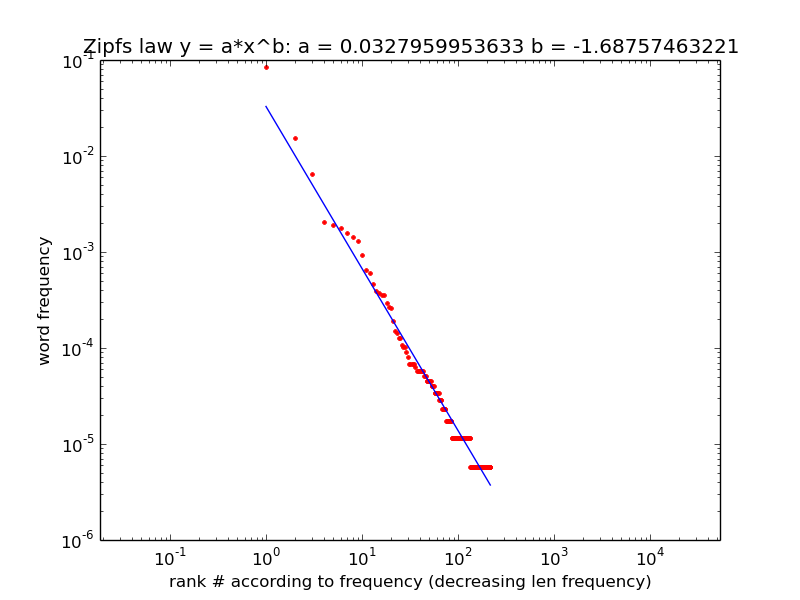
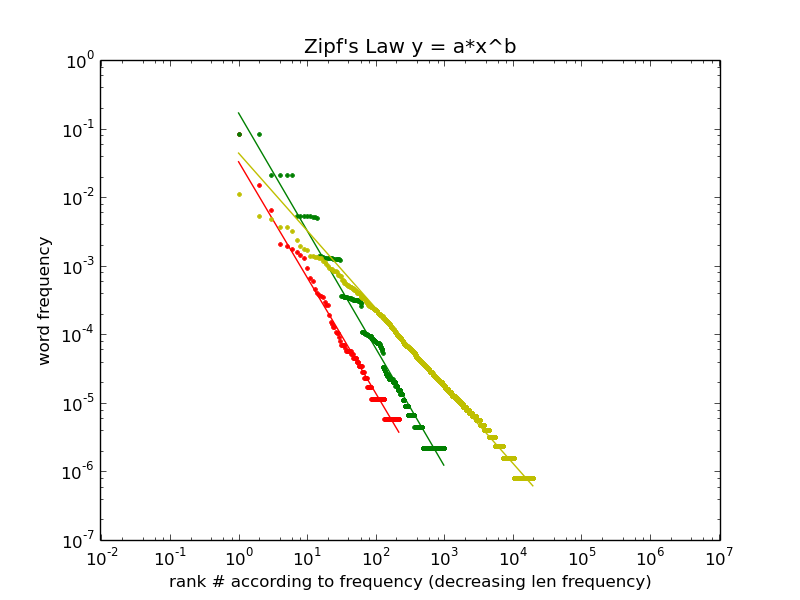
it is possible to compare texts with their word/frequency content graphicallt

diff --git a/src/decoding_cosmicos.py b/src/decoding_cosmicos.py
@@ -32,7 +32,22 @@ class DecoderClass(object):
         preliminary = [str(i) for i in list(np.random.random_integers(0, 3, (limit,)))]
         self.origmsgtext = ''.join(preliminary)
         self.msgtext = self.origmsgtext
-        return limit
+        return (limit, self.msgtext)
+        
+    def readStandardTextFromFile(self, filename, limit=10000):
+        print('---------')
+        print("Reading text from file %s with limit %d characters" % (filename, limit))
+        
+        fl = open(filename,'r')
+        s = fl.read()
+        s.lower()
+        fl.close()
+        if limit > 0:
+            s = s[0:limit]
+        lenmsg = len(s)
+        print('---------')
+        return (lenmsg, s)
+        
     
     def readMessage(self, filename, limit=10000):
         print('---------')
@@ -47,16 +62,12 @@ class DecoderClass(object):
         lenmsg = len(self.msgtext)
         print('---------')
         return lenmsg
-
-    def doesItObeyZipfsLaw(self, delimsymbols):
         
-        print("Printing word frequency over ordered by frequency rank.")
-        print("This obviously relies on the correct choice of delimiter symbols.")
-        print("This should give a power law according to Zipf\'s law.")        
         
-        modifiedmsg = re.sub(delimsymbols, ' ', self.msgtext)
+    def performFrequencyRankOrderingAndFit(self, msgtext, delimsymbols, wordre):
+        modifiedmsg = re.sub(delimsymbols, ' ', msgtext)
         lenmodifiedmsg = len(modifiedmsg)
-        pwords = re.compile(r'[01]+') # usually \w+ but we have digits instead of letters
+        pwords = re.compile(wordre) # usually \w+ but we have digits instead of letters
         wordlist = pwords.findall(modifiedmsg)
 
         worddict = {}
@@ -75,13 +86,16 @@ class DecoderClass(object):
         log10freqranking = np.log10(freqranking)
         
         [decreasing, intersection] = np.lib.polynomial.polyfit(log10freqranking[:,0],log10freqranking[:,1],1)
-        
-        # y = a*x^b
-        # log10 y = log10 a + b*log10 x
 
-        xfit = np.linspace(freqranking[0, 0], freqranking[-1, 0], 100)
-        yfit = 10.0**intersection*np.power(xfit, decreasing)
+        return (freqranking, decreasing, intersection)
+
+
+    def doesItObeyZipfsLaw(self, textlist, delimiterlist, wordrelist, colorlist_points, colorlist_fits):
         
+        print("Printing word frequency over ordered by frequency rank.")
+        print("This obviously relies on the correct choice of delimiter symbols.")
+        print("This should give a power law according to Zipf\'s law.")        
+
         fig = plt.figure(1)
         ax = fig.add_subplot(111)
 
@@ -90,13 +104,30 @@ class DecoderClass(object):
 
         ax.set_yscale('log')
         ax.set_xscale('log')
-        
-        ax.set_title('Zipfs law y = a*x^b: a = '
-            +str(10.0**intersection) + ' b = ' + str(decreasing))
+
         ax.set_xlabel('rank # according to frequency (decreasing len frequency)')
         ax.set_ylabel('word frequency')
+ 
+        texts_to_analyse = [self.msgtext] + textlist       
+        delimiters_to_use = [r'[23]+'] + delimiterlist
+        wordres_to_use = [r'[01]+'] + wordrelist
+        colorlist_points_to_use = ['r'] + colorlist_points
+        colorlist_fits_to_use = ['r'] + colorlist_fits
         
-        ax.plot(freqranking[:, 0], freqranking[:, 1], 'r.', xfit, yfit, 'b')
+        for (text, delimiters, wordre, color_points, color_fits) in zip(texts_to_analyse, delimiters_to_use, wordres_to_use, colorlist_points_to_use, colorlist_fits_to_use):
+            
+            (freqranking, decreasing, intersection) = self.performFrequencyRankOrderingAndFit(text, delimiters, wordre)        
+        
+            # y = a*x^b
+            # log10 y = log10 a + b*log10 x
+
+            xfit = np.linspace(freqranking[0, 0], freqranking[-1, 0], 100)
+            yfit = 10.0**intersection*np.power(xfit, decreasing)
+        
+       
+            ax.set_title('Zipf\'s Law y = a*x^b')
+        
+            ax.plot(freqranking[:, 0], freqranking[:, 1], color_points+'.', xfit, yfit, color_fits)
 
         plt.show()
 
@@ -271,9 +302,13 @@ def main(argv):
 
     d = DecoderClass()    
     
-    #msglen = d.generateRandomMessage(limit=300000)
+    (msglen, randomtext) = d.generateRandomMessage(limit=600000)
+    #(txtlen, mobytext) = d.readStandardTextFromFile("../moby_dick.txt", limit=0)
     msglen = d.readMessage(argv[1], limit=0)
-    d.doesItObeyZipfsLaw('[23]+')
+    
+    d.doesItObeyZipfsLaw([randomtext], [r'[23]+'], [r'[01]+'], ['g'], ['g'])
+    # check various texts or messages for their ranked frequency content    
+    
     d.showGraphicalRepresentation(width=512)
 
     # message at the actual version is somehow not correctly encoded
